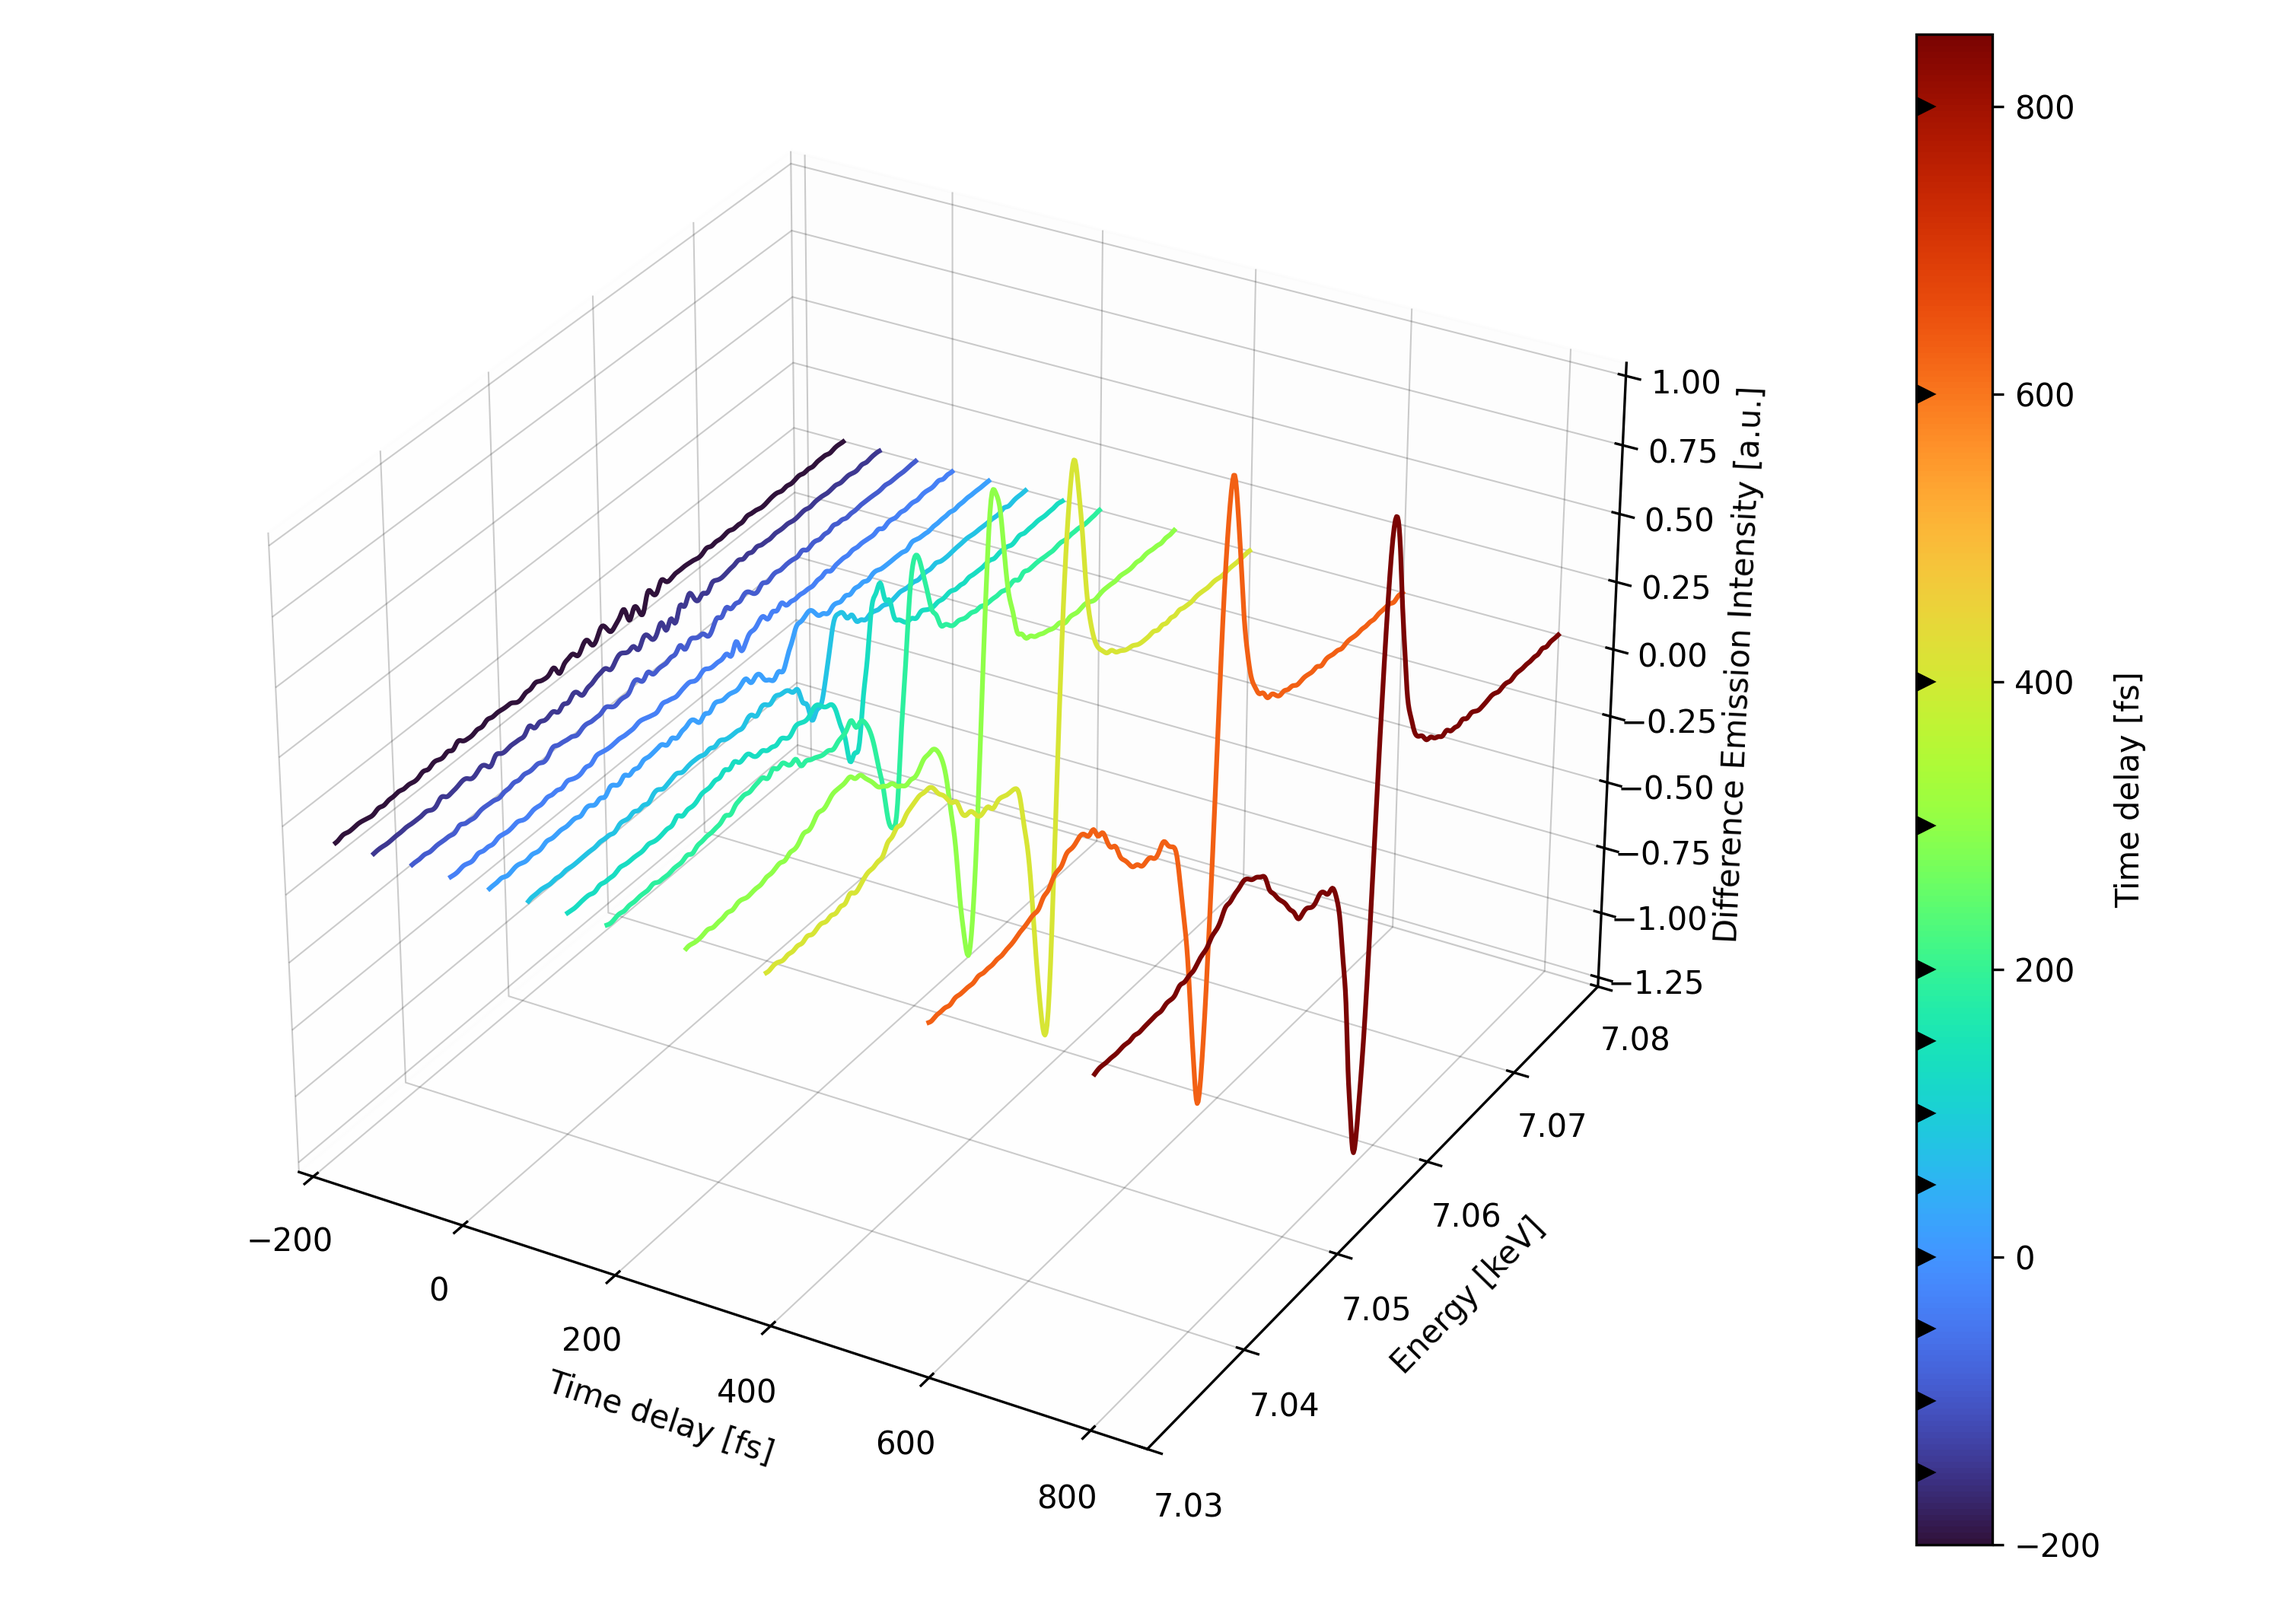
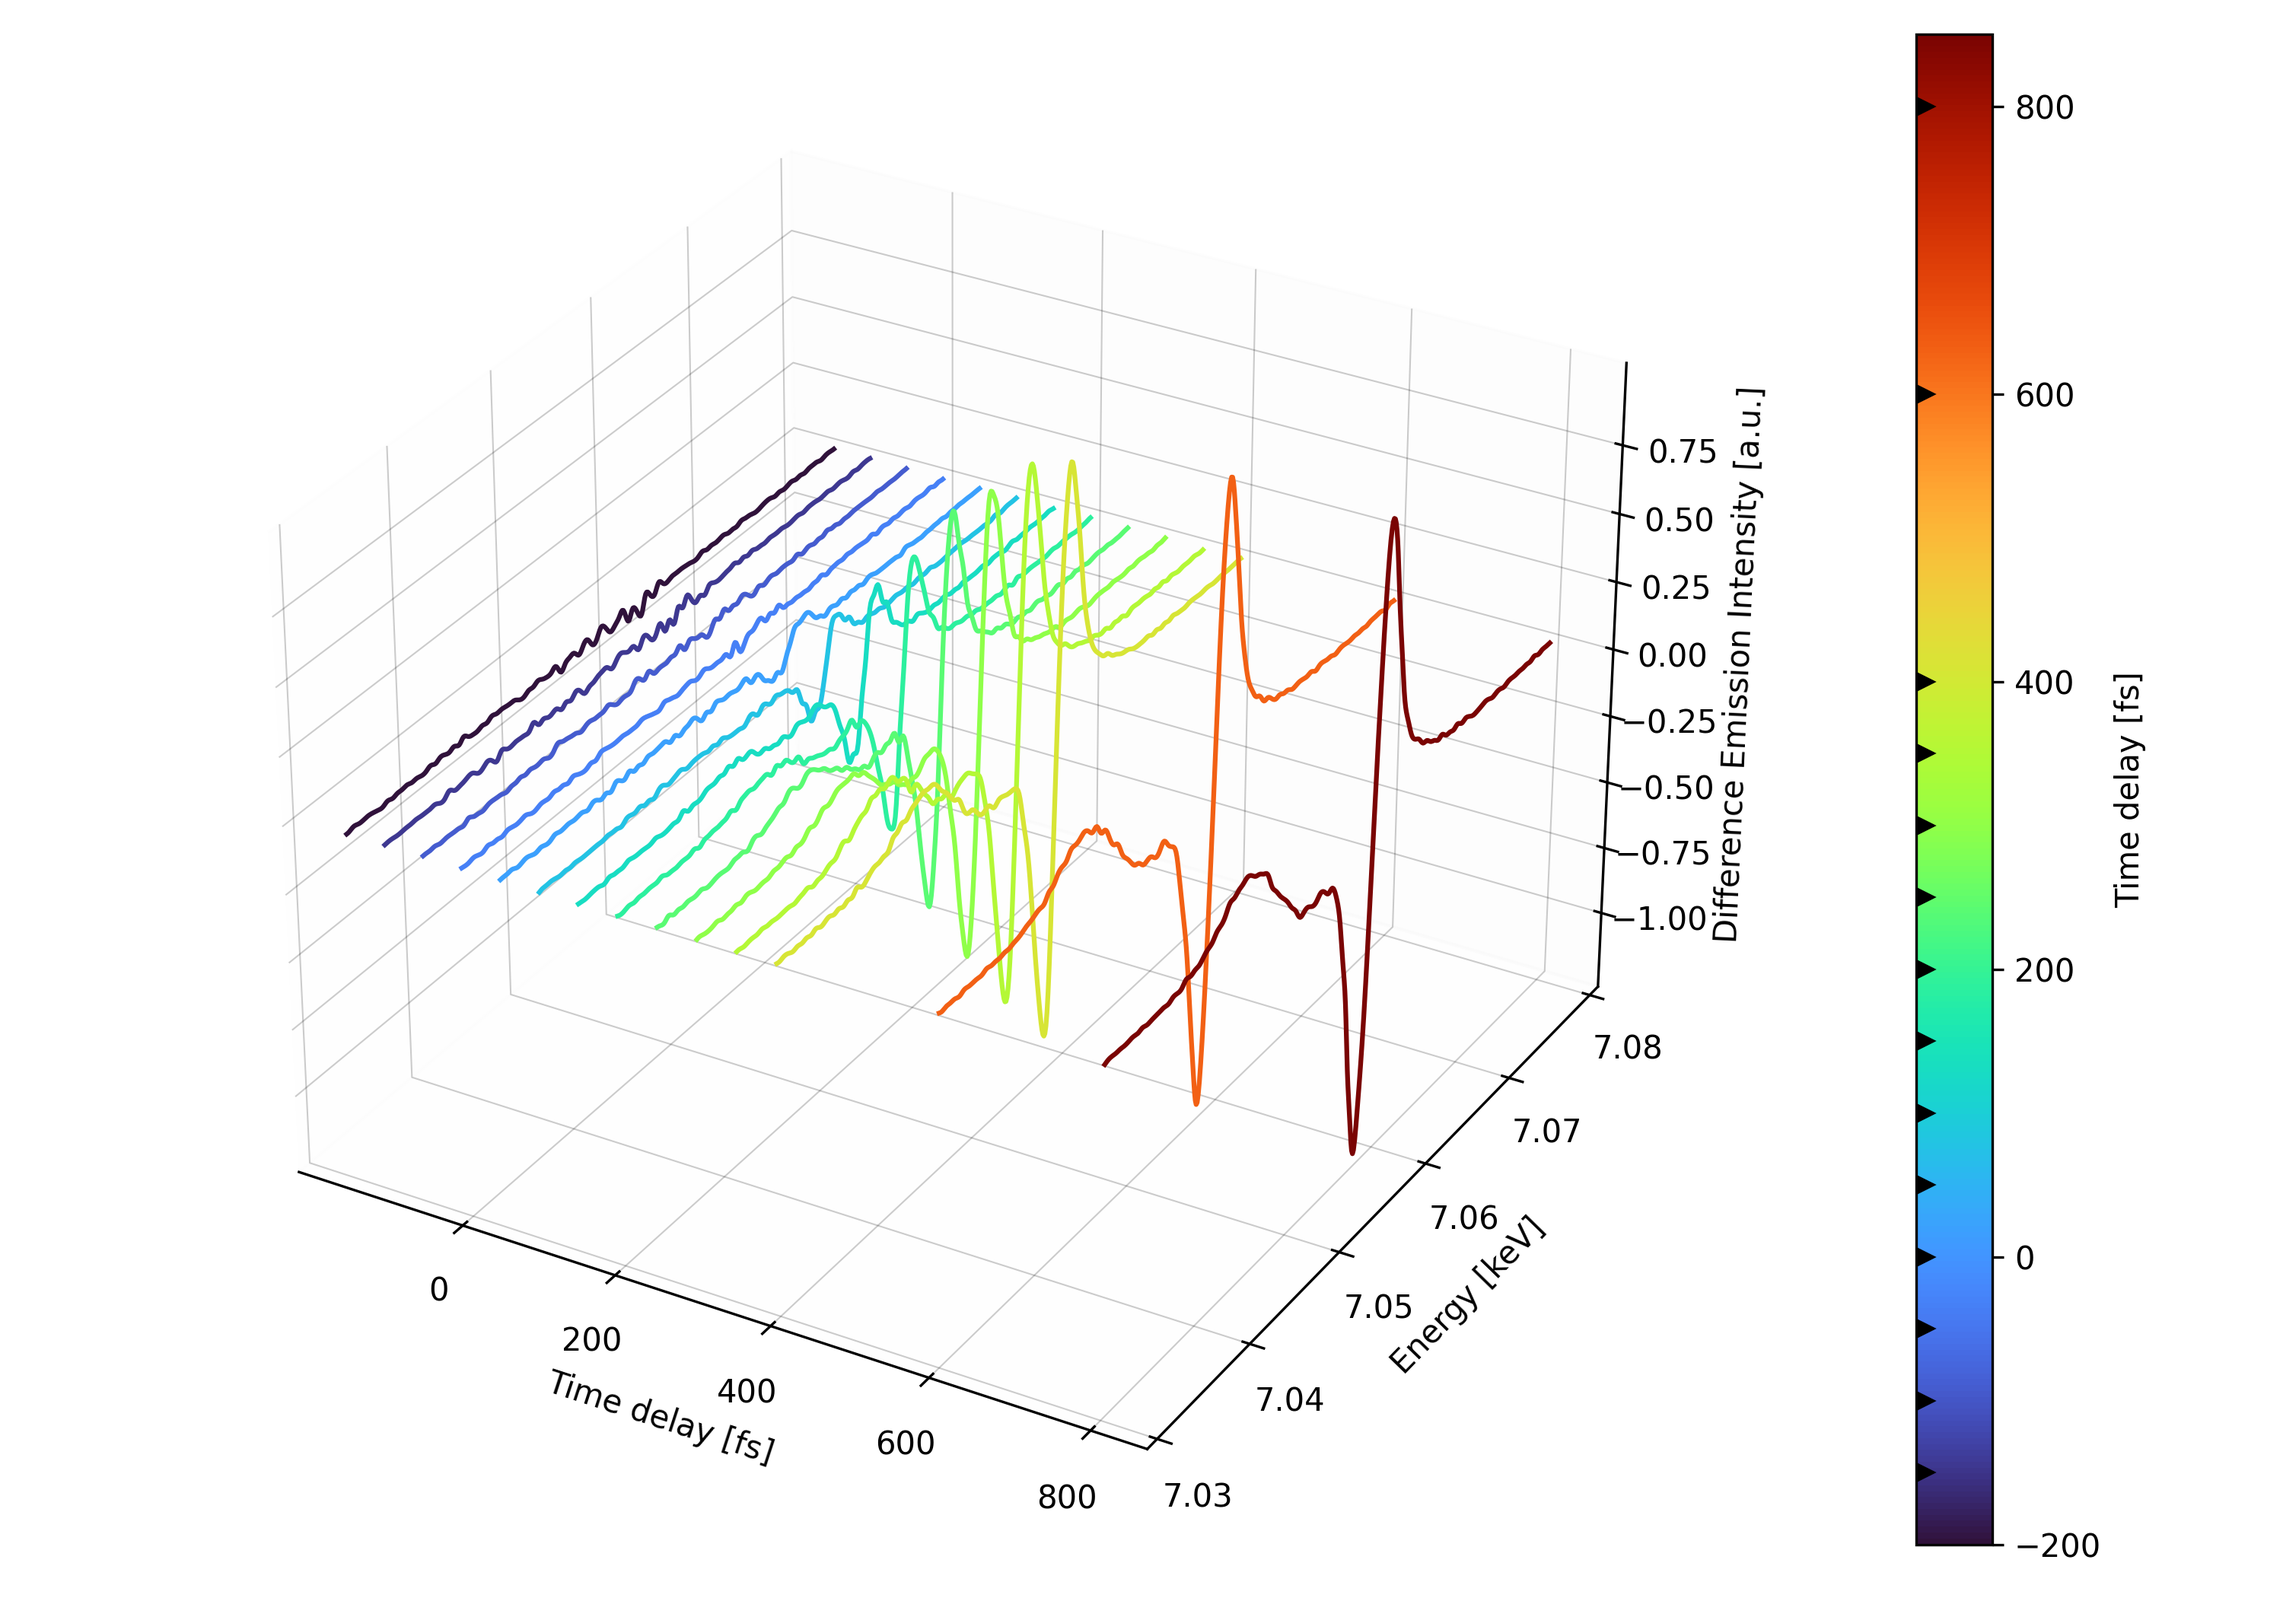
fit changes und plot größe

diff --git a/P6/Auswertung EXP21/fit/fit_v5.py b/P6/Auswertung EXP21/fit/fit_v5.py
@@ -1,5 +1,17 @@
 import numpy as np
 import matplotlib.pyplot as plt
+import matplotlib.pyplot as plt
+
+plt.rcParams.update({
+    "font.size": 16,
+    "axes.titlesize": 16,
+    "axes.labelsize": 16,
+    "xtick.labelsize": 16,
+    "ytick.labelsize": 16,
+    "legend.fontsize": 16,
+    "legend.title_fontsize": 16,
+})
+
 from pathlib import Path
 from scipy.interpolate import interp1d
 from scipy.optimize import minimize
@@ -109,7 +121,7 @@ def fit_difference_spectrum(energy, difference, sigma, reference_spectra):
         return np.sum(((difference - fitted) / sigma) ** 2)
 
     # für alle states
-    '''x0 = np.array([1.0, 0.1, 0.1, 0.1, 0.1])
+    x0 = np.array([0.1, 1.0, 0.1, 0.1, 0.0])
     result = minimize(
         objective,
         x0,
@@ -118,10 +130,9 @@ def fit_difference_spectrum(energy, difference, sigma, reference_spectra):
         constraints={"type": "ineq", "fun": lambda parameters: 1.0 - np.sum(parameters[1:])},
         options={"ftol": 1e-12, "maxiter": 2000},
     )
-    '''
 
-    # für alle außer quartet
-    x0 = np.array([1.0, 0.1, 0.1, 0.1])
+    '''# für alle außer quartet
+    x0 = np.array([0.3, 1.0, 0.1, 0.0])
     result = minimize(
         objective,
         x0,
@@ -129,7 +140,7 @@ def fit_difference_spectrum(energy, difference, sigma, reference_spectra):
         bounds=[(0.0, None),(0.0, 1.0),(0.0, 1.0),(0.0, 1.0),],
         constraints={"type": "ineq","fun": lambda parameters: 1.0 - np.sum(parameters[1:])},
         options={"ftol": 1e-12, "maxiter": 2000},
-    )
+    )'''
 
     amplitude = result.x[0]
     fitted, populations = model(result.x)
@@ -147,14 +158,14 @@ delay_names = ["min150 fs", "min100 fs", "min50 fs", "0 fs", "50 fs", "100 fs", 
 t_fs, energy_common, dI_mean, sigma = build_deltaI_matrix_from_folders(data_folder=data_folder, delays=delays, delay_names=delay_names, load_spectrum=load_spectrum)
 # load and interpolate all five reference spectra
 energy_ref, reference_ref = load_reference_spectra(ref_file)
-'''reference_spectra = np.column_stack([
-    interp1d(energy_ref, reference_ref[:, state], bounds_error=False, fill_value=np.nan)(energy_common)
-    for state in range(reference_ref.shape[1])
-])'''
 reference_spectra = np.column_stack([
     interp1d(energy_ref, reference_ref[:, state], bounds_error=False, fill_value=np.nan)(energy_common)
-    for state in [0, 1, 2, 4]
+    for state in range(reference_ref.shape[1])
 ])
+'''reference_spectra = np.column_stack([
+    interp1d(energy_ref, reference_ref[:, state], bounds_error=False, fill_value=np.nan)(energy_common)
+    for state in [0, 1, 2, 4]
+])'''
 
 valid = (
     np.isfinite(dI_mean).all(axis=0)
@@ -186,8 +197,8 @@ populations = np.array(populations)
 fitted_spectra = np.array(fitted_spectra)
 
 plt.figure(figsize=(7, 4.5))
-#state_names = ["singlet", "doublet", "triplet", "quartet", "quintet"]
-state_names = ["singlet", "doublet", "triplet", "quintet"]
+state_names = ["singlet", "doublet", "triplet", "quartet", "quintet"]
+#state_names = ["singlet", "doublet", "triplet", "quintet"]
 for index, state_name in enumerate(state_names):
     plt.plot(t_fs, populations[:, index], "o-", label=state_name)
 plt.xlabel("Time delay [fs]")
@@ -195,5 +206,5 @@ plt.ylabel("Population $a_M$")
 plt.ylim(-0.02, 1.02)
 plt.legend()
 plt.tight_layout()
-plt.savefig("Auswertung EXP21/fit/fit_without_quarlets.png")
+plt.savefig("Auswertung EXP21/fit/fit_with_quarlets.png")
 plt.show()
